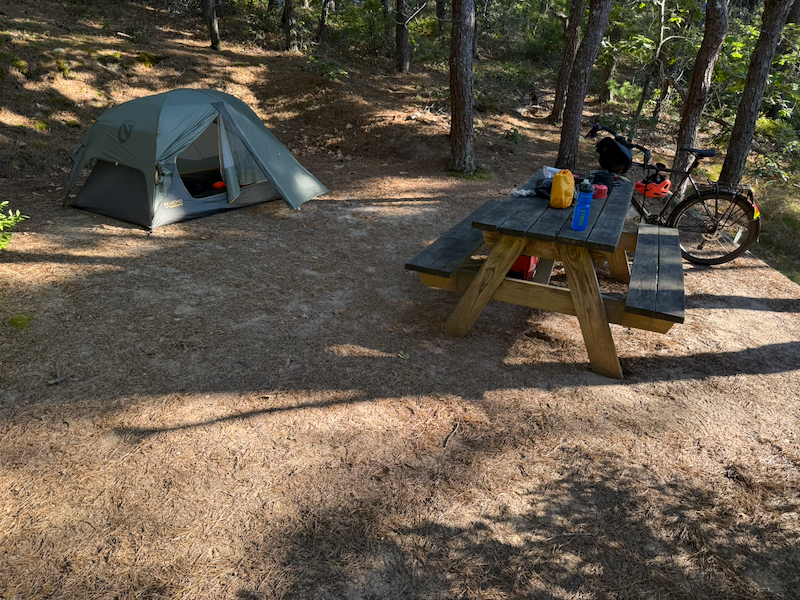
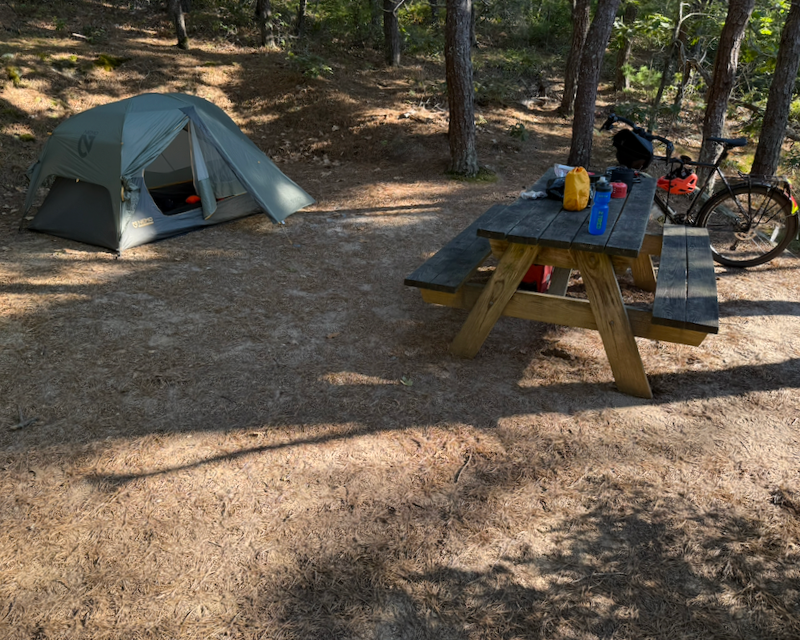
New and revised posts
Add a post about Cape Cod 2025 Day Three.

Revise other Cape Cod 2025 posts for consistency and corrected links.

diff --git a/_posts/2025-09-03-cape-cod-2025-day-one.md b/_posts/2025-09-03-cape-cod-2025-day-one.md
@@ -1,5 +1,5 @@
 ---
-title: "Bicycle Tour: Cape Cod, Day One"
+title: "Bicycle Tour: Cape Cod 2025, Day One"
 description: I travelled from Somerville to the North of Highland Camping Area on Cape Cod, with about twelve miles of bicycle riding and fifty-four miles on the Provincetown Fast Ferry.
 date: 2025-09-03 19:27:00 -0400
 author: conrad
@@ -8,31 +8,33 @@ media_subpath: /assets/img/2025-09-03/
 ---
 
 Wednesday, September 3, 2025, was the first of eight days and seven nights of
-riding and camping on Cape Cod. I had reservations for four nights at
+riding and camping on Cape Cod. I made reservations for four nights at
 [North of Highland Camping Area](www.capecodcamping.com)
 followed by three nights at
 [Nickerson State Park](https://www.mass.gov/locations/nickerson-state-park).
 My plan was to spend each day hiking and/or bicycling. I toured this area of
-Cape Cod two years ago in September 2024.
+Cape Cod two years ago in September 2023 (see
+[Cape Cod 2023, Day One]( {% link _posts/2023-09-24-cape-cod-2023-day-one.md %} )).
 
 <iframe src="https://ridewithgps.com/embeds?type=route&id=53040340&title=Somerville%20to%20North%20of%20Highland%20Campground&sampleGraph=true&distanceMarkers=true" style="width: 1px; min-width: 100%; height: 700px; border: none;" scrolling="no"></iframe>
 
-I left the house at 11:30 a.m. and took the Somerville
-Community Path and other bike lanes to the Provincetown Fast Ferry pier in the
+I left the house at 11:30 a.m. and took the Somerville Community Path and other
+bike lanes in Cambridge and Boston to the Provincetown Fast Ferry pier in the
 Seaport district of Boston (45 minutes, 5.23 miles). A round-trip ticket on the
 [Provincetown Fast Ferry](https://baystatecruisecompany.com/schedule-fares/)
 cost $148, including $10 each way for my bicycle.
 
-After I rolled my bike onto
-the ferry's bow, a ferry employee tied it securely to the bike racks. Since my
-front rack prevented me from inserting my wheel into the bike rack, I leaned
-my bike sideways against the bike rack. Fortunately, there was plenty of space.
+After I rolled my bike onto the ferry's bow, a ferry employee tied it securely
+to the bike racks. Since my front rack prevented me from inserting my wheel into
+the bike rack, I leaned my bike sideways against the bike rack. Fortunately,
+there was plenty of space.
 
 The ferry departed promptly at 1:00 p.m. and arrived at MacMillan Pier in
-Provincetown at 2:30 p.m. The weather was sunny but windy, and I sat in one of
-the seats in the bow.
+Provincetown at 2:30 p.m. The weather was sunny but windy; I joined five other
+passengers in the seats in the bow, but gradually the other passengers sought
+shelter inside because the wind was so strong.
 
-![Waiting in Line in Boston for Boarding the Provincetown Fast Ferry](waiting-in-line-for-boarding-the-provincetown-fast-ferry.png){:width="800" height="600" }_Waiting in Line in Boston for Boarding the Provincetown Fast Ferry_
+![Waiting in line in Boston for boarding the Provincetown Fast Ferry](waiting-in-line-for-boarding-the-provincetown-fast-ferry.png){:width="800" height="600" }_Waiting in line in Boston for boarding the Provincetown Fast Ferry_
 
 ![Departing Boston on the Provincetown Fast Ferry](departing-boston-on-the-provincetown-fast-ferry.png){:width="800" height="600" }_Departing Boston on the Provincetown Fast Ferry_
 
@@ -41,9 +43,11 @@ the seats in the bow.
 After disembarking at MacMillan Pier in Provincetown, I rode through
 Provincetown on Route 6A, following the East Coast Greenway route. To get to
 the Head of the Meadow Bike Trail, I needed patience to wait for a gap in
-the high-speed traffic to cross Route 6. The
-beautiful and quiet Head of the Meadow Bike Trail is located between the dunes
-and the ocean.
+the high-speed traffic to cross Route 6 at the tricky intersection with
+Stotts Crossing and High Head Road.
+
+The beautiful and quiet Head of the Meadow Bike Trail is located between the
+dunes and the ocean.
 
 ![Head of the Meadow Bike Trail](head-of-the-meadow-bike-trail.png){:width="800" height="600" }_Head of the Meadow Bike Trail_
 
@@ -51,10 +55,10 @@ After 6.92 miles of riding (46 minutes), I arrived at the North of Highland
 Camping Area, where I quickly checked in and found my beautiful and secluded
 campsite. The weather was sunny and a very comfortable 69 °F.
 
-![My Secluded Campsite at North of Highland Camping Area](campsite-at-north-of-highland-camping-area.png){:width="800" height="600" }_My Secluded Campsite at North of Highland Camping Area_
+![My secluded campsite at North of Highland Camping Area](campsite-at-north-of-highland-camping-area.png){:width="800" height="600" }_My secluded campsite at North of Highland Camping Area_
 
 Once I finished setting up my campsite, I walked to the Head of Meadow Beach. I
-walked down the beach to Coast Guard Rd and walked back to the campground on
+walked down the beach to Coast Guard Road and walked back to the campground on
 the Head of the Meadow Bike Path Connector for a total of 2.4 miles.
 
 The trees growing in the woods
@@ -63,7 +67,7 @@ include pitch pine (_Pinus rigida_), white oak (_Quercus alba_), and black oak
 on Cape Cod uninteresting, but there is an abundance of soft dry sand. The moon
 was rising at 5:55 p.m., and I saw the head of a seal in the ocean.
 
-![Pitch Pine Forest Near the Head of the Meadow Beach](pitch-pine-forest-near-head-of-the-meadow-beach.png){:width="800" height="600" }_Pitch Pine Forest Near the Head of the Meadow Beach_
+![Pitch pine forest near the Head of the Meadow Beach](pitch-pine-forest-near-head-of-the-meadow-beach.png){:width="800" height="600" }_Pitch Pine forest near the Head of the Meadow Beach_
 
 ![Head of the Meadow Beach](head-of-the-meadow-beach.png){:width="800" height="600" }_Head of the Meadow Beach_
 
@@ -71,4 +75,4 @@ I managed my effort well on this short and easy day at 57% Zone 1, 33% Zone 2,
 and 10% Zone 3.
 
 For the second day of this eight-day tour, see
-[Cape Cod, Day Two]( {% link _posts/2025-09-04-cape-cod-2025-day-two.md %} ).
+[Cape Cod 2025, Day Two]( {% link _posts/2025-09-04-cape-cod-2025-day-two.md %} ).

diff --git a/_posts/2025-09-05-cape-cod-2025-day-three.md b/_posts/2025-09-05-cape-cod-2025-day-three.md
@@ -1,0 +1,77 @@
+---
+title: "Bicycle Tour: Cape Cod 2025, Day Three"
+description: I visited Highland Light and explored roads in the vicinity.
+date: 2025-09-05 21:43:00 -0400
+author: conrad
+categories: [Bicycling]
+media_subpath: /assets/img/2025-09-05/
+---
+
+Friday, September 5, 2025, was the third day of my tour of Cape Cod.
+(For the second day of this tour, see
+[Cape Cod 2025, Day Two]( {% link _posts/2025-09-04-cape-cod-2025-day-two.md %} )).
+I was camping at North of Highland Camping Area for the third day.
+
+I slept for seven hours and woke at 6:00 a.m. A little rain started at 6:00
+a.m., with a rainbow at sunrise; the rain was intermittent until 7:40 a.m.
+
+I depleted a power bank by charging my phone, watch, and bike lights. I
+recharged the power bank in the campground's recreation room using a 5-watt
+charger; this took 6.5 hours.
+
+I walked from the campground to
+[Highland Light](https://www.highlandlighthouse.org),
+where I took
+the tour given by volunteers. I climbed to the top and chatted with the
+volunteer.
+
+![Highland Light viewed from the beach](highland-light.png){:width="800" height="600" }_Highland Light viewed from the beach_
+
+![View looking northwest from Highland Light](view-looking-northwest-from-highland-light.png){:width="800" height="600" }_View looking northwest from Highland Light_
+
+![View looking northeast from Highland Light](view-looking-northeast-from-highland-light.png){:width="800" height="600" }_View looking northeast from Highland Light_
+
+![View looking southeast from Highland Light](view-looking-southeast-from-highland-light.png){:width="800" height="600" }_View looking southeast from Highland Light_
+
+![LED bulb in Highland Light](led-bulb-in-highland-light.png){:width="600" height="800" }_LED bulb in Highland Light_
+
+I explored the _wetu_, a traditional [Wampanoag](https://trurohistoricalsociety.org/wampanoag-nation-people-of-the-first-light/)
+dwelling, installed in front of the Highland House Museum.
+
+![Exterior of Wampanoag wetu at Highland Light Museum](exterior-of-wampanoag-wetu-at-highland-light-museum.png){:width="800" height="600" }_Exterior of Wampanoag wetu at Highland Light Museum_
+
+![Rear interior of Wampanoag wetu at Highland Light Museum](rear-interior-of-wampanoag-wetu-at-highland-light-museum.png){:width="800" height="600" }_Rear interior of Wampanoag wetu at Highland Light Museum_
+
+![Front interior of Wampanoag wetu at Highland Light Museum](front-interior-of-wampanoag-wetu-at-highland-light-museum.png){:width="800" height="600" }_Front interior of Wampanoag wetu at Highland Light Museum_
+
+After visiting Highland Light, I walked to Salty Market in North Truro for a
+chicken salad sandwich and two sesame seed bagels. I returned to the campground
+via the path next to Adventure Bound Camping Resorts. My total walking distance
+was 5.45 miles.
+
+I took a 90-minute nap from 12:30 to 2:00 p.m. The weather was 76 °F and sunny
+with a breeze.
+
+After my nap, I rode 11.44 miles exploring the area and scouting the early part
+of my route to Nickerson State Park. As part of the ride, I followed the East
+Coast Greenway route south on South Highland Road to its intersection with
+Route 6. I sat on my bike for a few minutes as I watched the intimidating high
+speed traffic on Route 6. I decided I didn't want to ride that way when I headed
+to Nickerson State Park on Sunday because of the difficulty of crossing Route 6
+there safely. My best alternative was to ride west on Highland Road, which
+passes _under_ Route 6, to Route 6A and take that south to Route 6.
+
+<iframe src="https://ridewithgps.com/embeds?type=trip&id=345433177&sampleGraph=true&distanceMarkers=true" style="width: 1px; min-width: 100%; height: 700px; border: none;" scrolling="no"></iframe>
+
+I rode Old Kings Highway south from Old Dewline Road to Longbrook Road. Old
+Kings Highway proved to be a sandy, unpaved, single lane road through the dune forest. I
+had to walk a section of it where the sand was too soft to ride. This was not a
+good alternative route going south.
+
+![Old Kings Highway](old-kings-highway.png){:width="800" height="600" }_Old Kings Highway_
+
+In the evening I walked from the campground to Head of the Meadow Beach to watch
+the moonrise. The ocean was very calm. Returning back to my campsite completed
+1.6 miles of walking.
+
+![Moonrise over Head of the Meadow Beach](moonrise-over-head-of-the-meadow-beach.png){:width="800" height="600" }_Moonrise over Head of the Meadow Beach_

diff --git a/_posts/2025-09-04-cape-cod-2025-day-two.md b/_posts/2025-09-04-cape-cod-2025-day-two.md
@@ -1,5 +1,5 @@
 ---
-title: "Bicycle Tour: Cape Cod, Day Two"
+title: "Bicycle Tour: Cape Cod 2025, Day Two"
 description: I rode the Provinceland bike trails north of Provincetown.
 date: 2025-09-04 18:04:00 -0400
 author: conrad
@@ -9,7 +9,8 @@ media_subpath: /assets/img/2025-09-04/
 
 Thursday, September 4, 2025, was the second day of my tour of Cape Cod.
 (For the first day of this tour, see
-[Cape Cod, Day One]( {% link _posts/2025-09-03-cape-cod-2025-day-one.md %} )).
+[Cape Cod 2025, Day One]( {% link _posts/2025-09-03-cape-cod-2025-day-one.md %} )).
+I was camping at North of Highland Camping Area for the second day.
 
 I slept 9:00 p.m. to 12:30 a.m., 3:30 a.m. to 6:00 a.m. My air mattress was
 leaking air because I hadn’t closed the valve completely. I read from
@@ -17,12 +18,12 @@ _Les Miserables_ by Victor Hugo on my Kindle while I was awake in the middle
 of the night.
 
 Dawn was sunny with a few clouds. I charged my phone and watch using a
-powerbank, and then I took the powerbank over to the campground's recreation
+power bank, and then I took the power bank over to the campground's recreation
 hall for charging. I turned off my Garmin inReach Messenger since I had a strong
 cell phone signal.
 
-I walked west from the campground on Head of the Meadow Rd to Salty’s Market in
-North Truro on Route 6A; this is an upscale and expensive deli and market; the
+I walked west from the campground on Head of the Meadow Road to Salty’s Market
+in North Truro on Route 6A; this is an upscale deli and market where the
 employees are very friendly and helpful. I bought a sandwich, some bagels, and
 fruit.
 
@@ -31,24 +32,27 @@ There is a severe shortage of affordable housing on Cape Cod since much of the
 housing stock has been purchased by investors for short-term rentals. Some new
 housing is being built to attract workers.
 
-I walked back to the campground taking a longer route on Highland Rd, Coast
-Guard Rd, and the Head of the Meadow Bicycle Trail Connector. The roads were
+I walked back to the campground taking a longer route on Highland Road, Coast
+Guard Road, and the Head of the Meadow Bicycle Trail Connector. The roads were
 typical Cape Cod roads with no sidewalks or bicycle lanes. I find the Cape
-annoying automobile-oriented. While walking along Coast Guard Rd, I photographed
-gargoyles and a robot at the driveways of very expensive homes.
+annoying automobile-oriented.
 
-![Highland Rd, A Typical Cape Cod Road](a-typical-cape-cod-road.png){:width="800" height="600" }_Highland Rd, A Typical Cape Cod Road_
+![Highland Road, a typical Cape Cod road](a-typical-cape-cod-road.png){:width="800" height="600" }_Highland Road, a typical Cape Cod road_
 
-![8 Coast Guard Rd](8-coast-guard-road.png){:width="800" height="600" }_8 Coast Guard Rd_
+While walking along Coast Guard Road, I photographed
+a gargoyle and a robot at the driveway entrances of very expensive homes.
+(Those are turkeys in the back of the driveway behind the gargoyle.)
 
-![11 Coast Guard Rd](11-coast-guard-rd.png){:width="600" height="800" }_11 Coast Guard Rd_
+![Gargoyle at 8 Coast Guard Road](8-coast-guard-road.png){:width="800" height="600" }_Gargoyle at 8 Coast Guard Road_
+
+![Robot at 11 Coast Guard Road](11-coast-guard-rd.png){:width="600" height="800" }_Robot at 11 Coast Guard Road_
 
 Starting at 11:15 a.m. I bicycled to Provincetown, where I rode all of the
 Provincelands bike trails, returning to the campground at 3:35 p.m. The
 Provinceland bike trails pass through the dunes to the ocean. Some of the hills
-on the bike trails are too steep to ride up unless you build up a lot of speed
-and momentum. I rode 28.87 total miles, all of the distance in Zone 1 or Zone 2.
-I was pretty tired.
+on the bike trails are too steep to ride up unless you build up a lot of
+momentum. I rode 28.87 total miles, all of the distance in Zone 1 or Zone 2.
+I was pretty tired when I finished.
 
 <iframe src="https://ridewithgps.com/embeds?type=route&id=53052013&title=Provincelands%20Bike%20Trails&sampleGraph=true&distanceMarkers=true" style="width: 1px; min-width: 100%; height: 700px; border: none;" scrolling="no"></iframe>
 
@@ -56,3 +60,6 @@ I was pretty tired.
 
 I took a shower and relaxed at my campsite. In the early evening, after dinner,
 I walked around the campground loops to stretch my legs.
+
+For the third day of this eight-day tour, see
+[Cape Cod 2025, Day Three]( {% link _posts/2025-09-05-cape-cod-2025-day-three.md %} ).

diff --git a/_posts/2025-09-10-cape-cod-2025-day-eight.md b/_posts/2025-09-10-cape-cod-2025-day-eight.md
@@ -1,5 +1,5 @@
 ---
-title: "Bicycle Tour: Cape Cod, Day Eight"
+title: "Bicycle Tour: Cape Cod 2025, Day Eight"
 description: I travelled from Nickerson State Park to Somerville via bicycle trails and the Provincetown Fast Ferry.
 date: 2025-09-10 22:01:00 -0400
 author: conrad
@@ -8,8 +8,8 @@ media_subpath: /assets/img/2025-09-10/
 ---
 
 Wednesday, September 10, 2025, was the eighth and final day of my tour on Cape
-Cod. I rode from Nickerson State Park
-following the East Coast Greenway route to MacMillan Pier in Provincetown.
+Cod. I rode from Nickerson State Park,
+following the East Coast Greenway route, to MacMillan Pier in Provincetown.
 I caught the fast ferry to Seaport in Boston and rode bike lanes to my home
 in Somerville. This is one of my favorite routes.
 
@@ -83,4 +83,4 @@ bicyclists waiting to cross the road; I went with them, which saved the big
 community path was congested, and the ride was moderately stressful.
 
 I arrived home at about 5:15 p.m. There was no rain the entire day. My total
-bicycle mileage was 45.15 miles.
+mileage for the day was 45.15 miles.

diff --git a/_posts/2025-09-07-cape-cod-2025-day-five.md b/_posts/2025-09-07-cape-cod-2025-day-five.md
@@ -1,5 +1,5 @@
 ---
-title: "Bicycle Tour: Cape Cod, Day Five"
+title: "Bicycle Tour: Cape Cod 2025, Day Five"
 description: I rode 31 miles in the rain from North of Highland Camping Area to Nickerson State Park.
 date: 2025-09-07 18:14:00 -0400
 author: conrad
@@ -7,7 +7,8 @@ categories: [Bicycling]
 media_subpath: /assets/img/2025-09-07/
 ---
 
-Sunday, September 7, 2025, was the fifth day of my tour of Cape Cod.
+Sunday, September 7, 2025, was the fifth day of my tour of Cape Cod. Today
+I departed from North of Highland Camping Area to ride to Nickerson State Park.
 
 <iframe src="https://ridewithgps.com/embeds?type=route&id=53035250&title=North%20of%20Highland%20Camping%20Area%20to%20Nickerson%20State%20Park&sampleGraph=true&distanceMarkers=true" style="width: 1px; min-width: 100%; height: 700px; border: none;" scrolling="no"></iframe>
 
